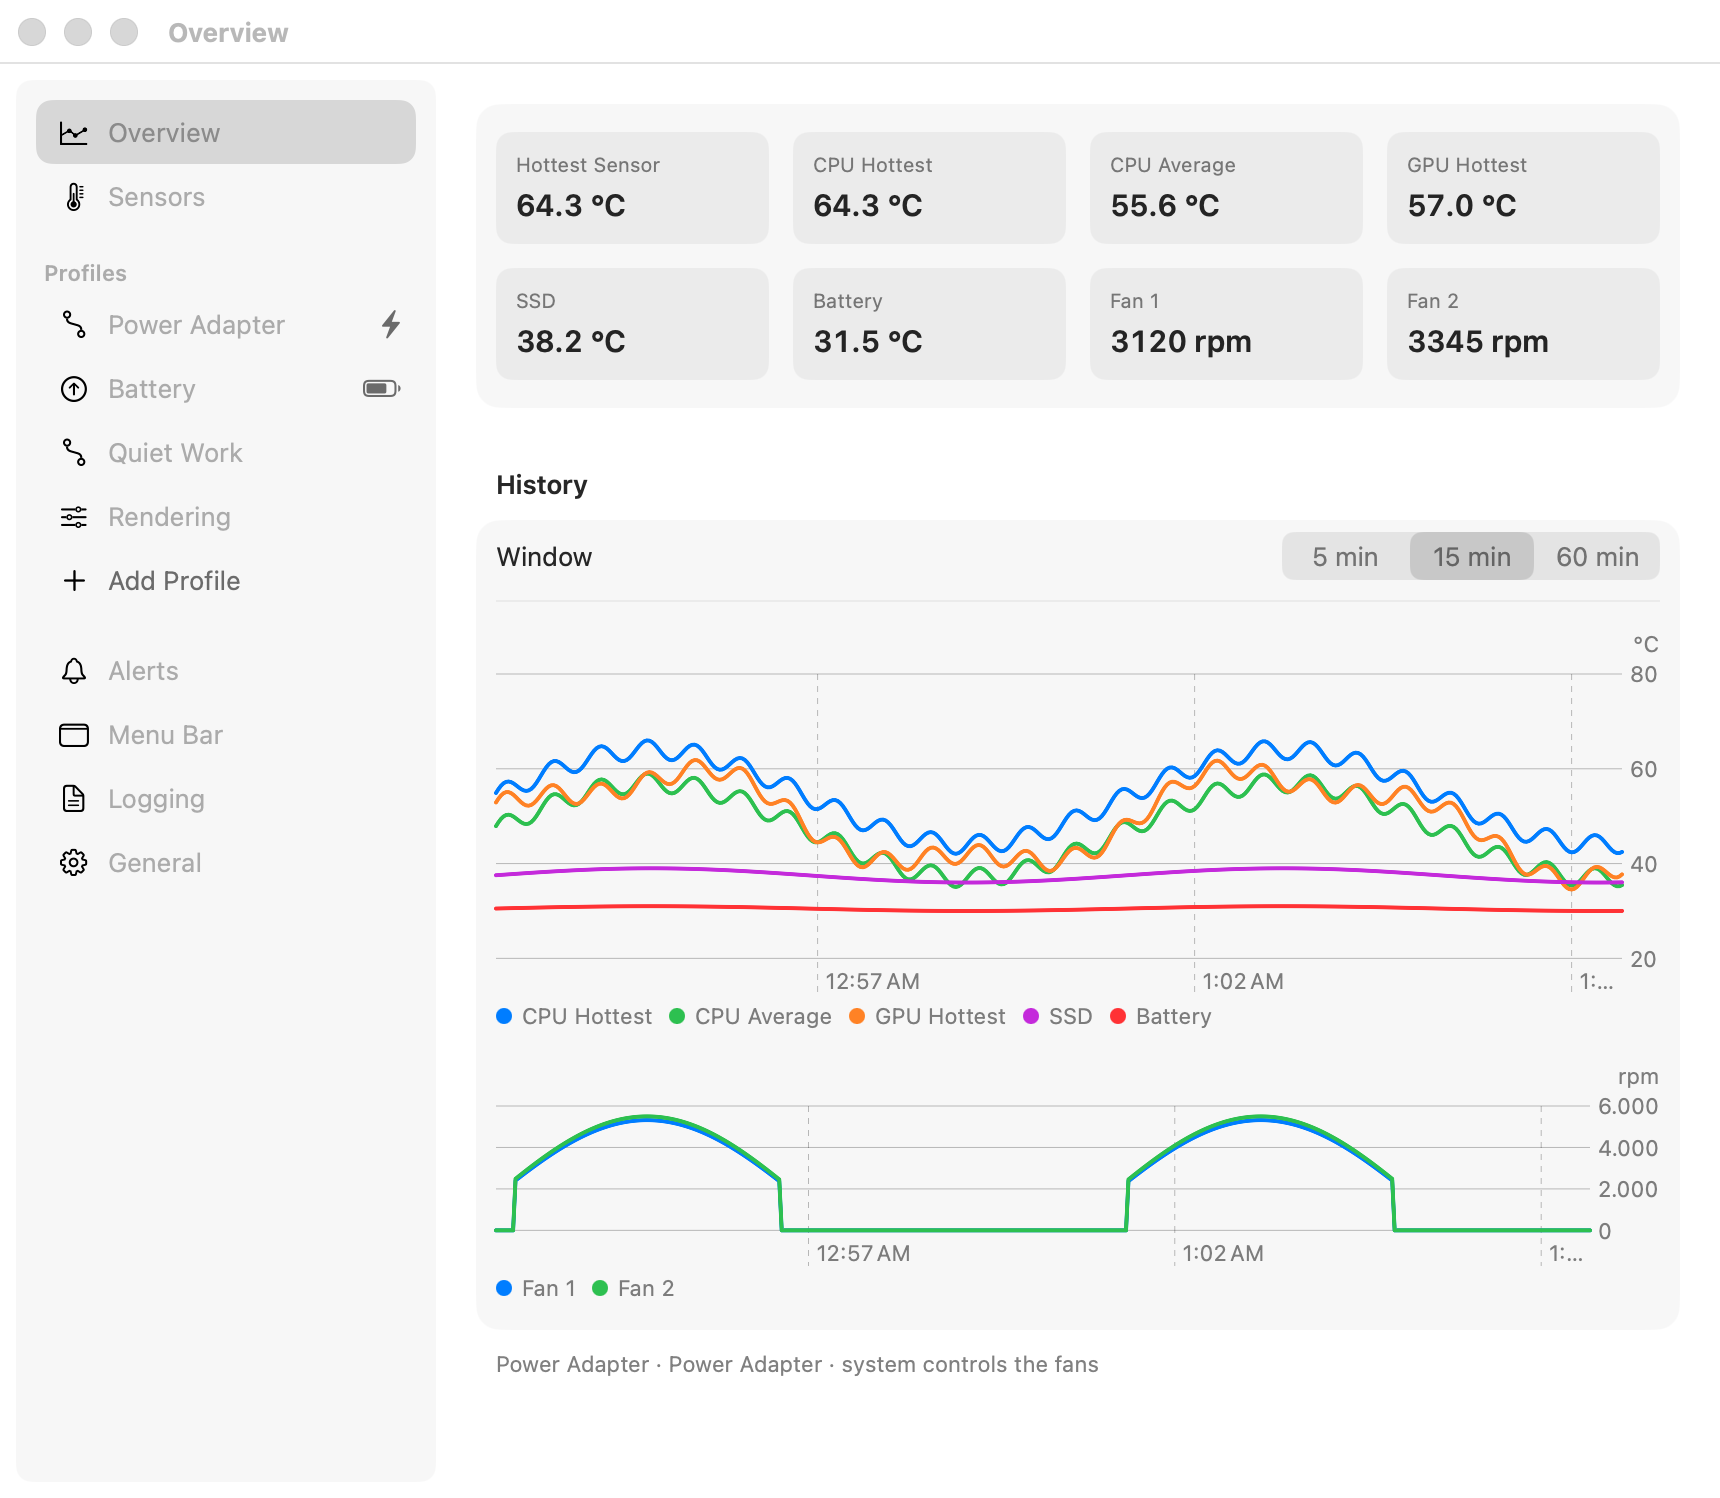
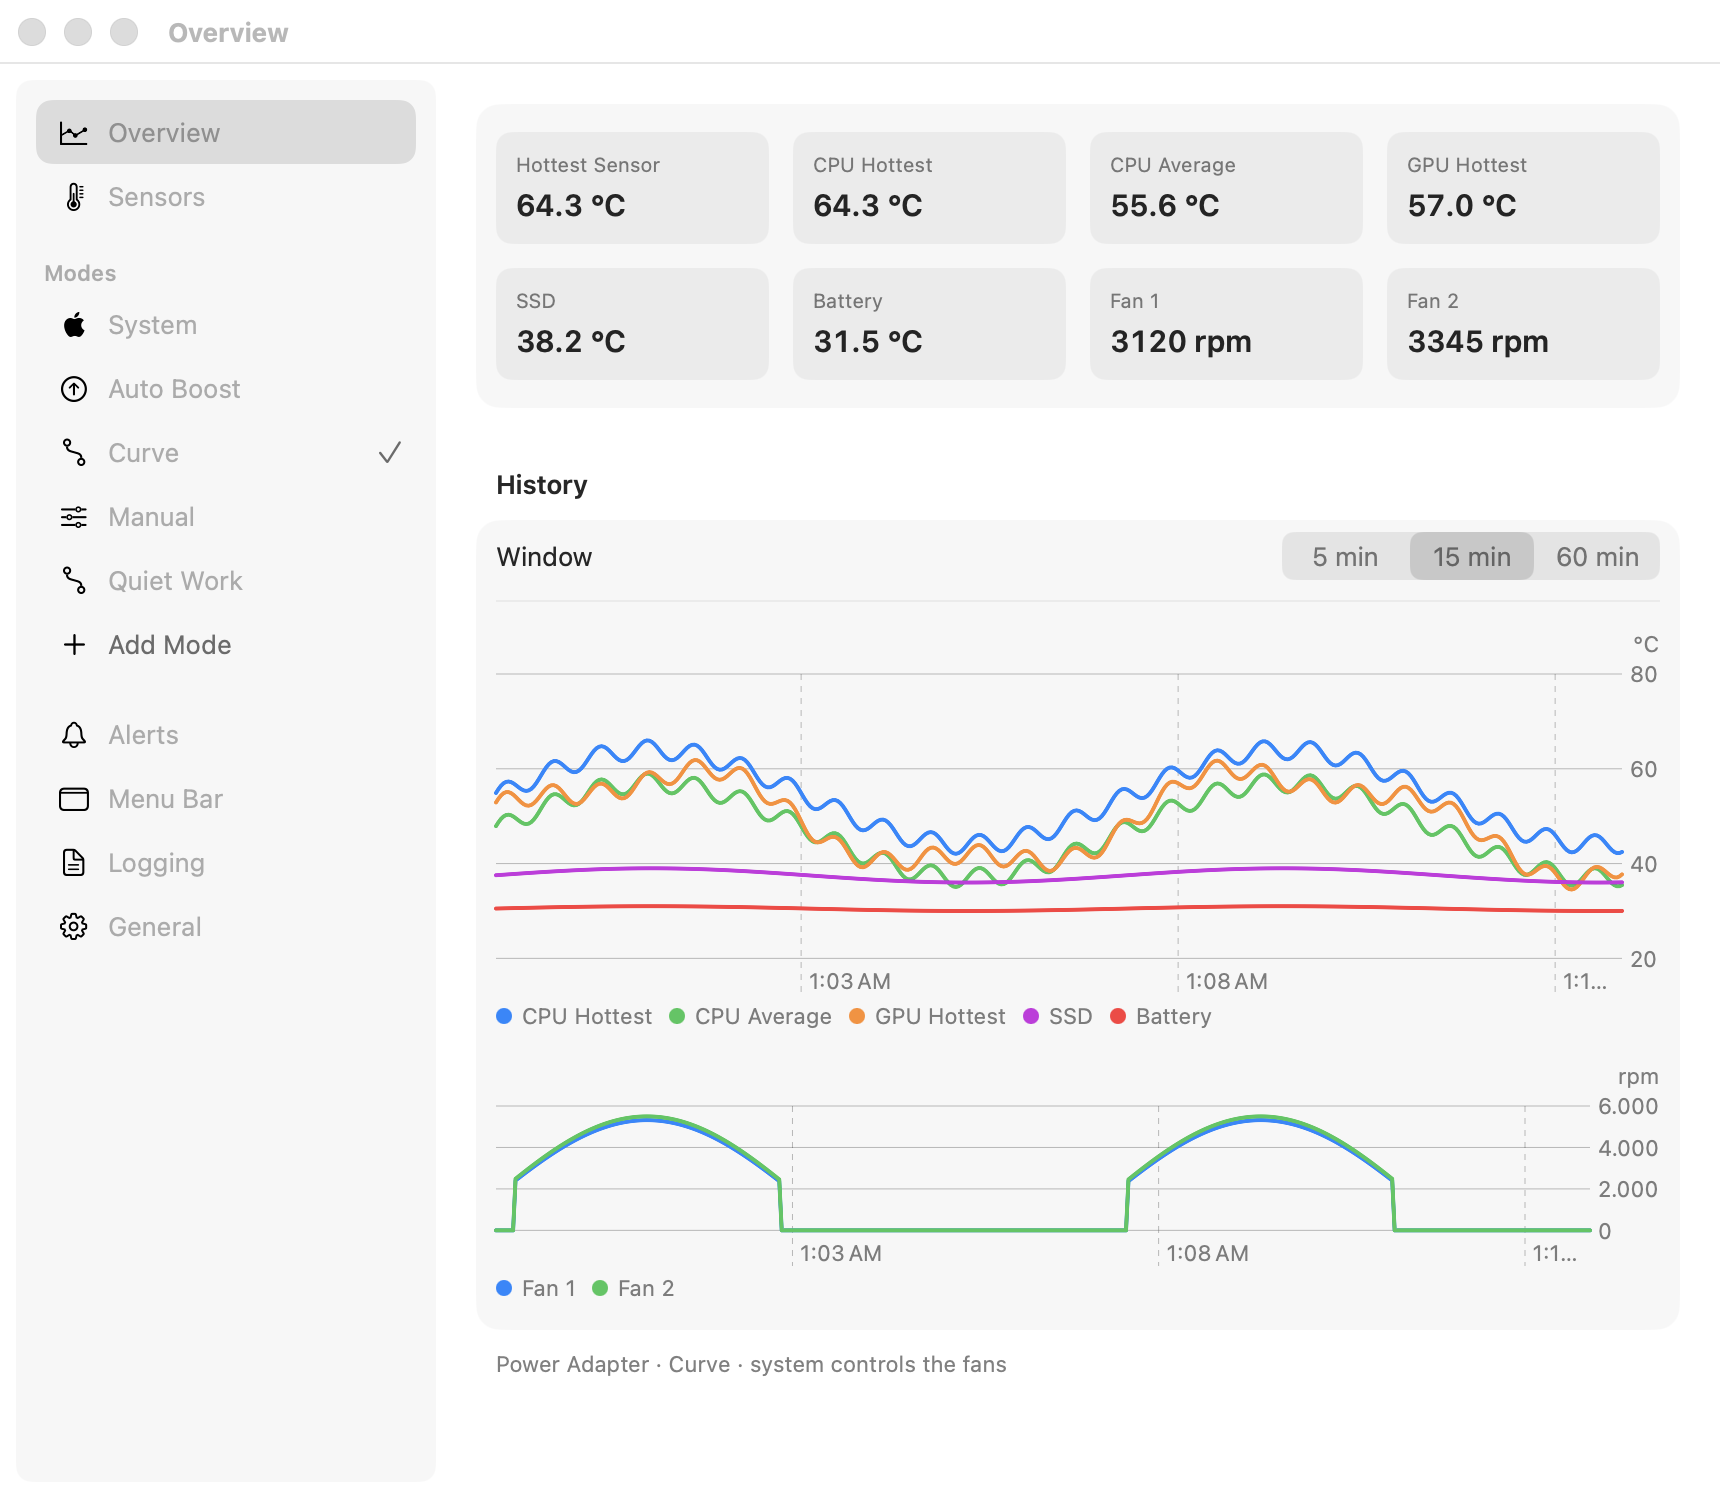
chore: document modes and ordering in readme with new screenshots

diff --git a/README.md b/README.md
@@ -25,14 +25,15 @@
 ## Features
 
 - **Sensors**: discovered at runtime from the SMC and grouped into CPU performance, CPU efficiency, GPU, SSD, battery, wireless, ambient and surface. Summary values (hottest sensor, CPU hottest, CPU average, GPU, SSD, battery) work the same on every Apple Silicon Mac.
-- **Fan modes**:
+- **Fan modes**, picked from the menu bar or the settings sidebar:
   - **System**: macOS stays in control, Tuuli only monitors.
   - **Auto Boost**: rules like "when CPU Hottest reaches 65 °C, run fans at 100%". The fastest active rule wins, with a configurable ramp time and release hysteresis.
-  - **Custom Curve**: a temperature-to-speed curve on any sensor. 0% hands control back to macOS so fans can still idle.
-  - **Manual**: a fixed speed.
-- **Profiles**: create, name, duplicate and delete as many fan profiles as you like. Assign one to the power adapter and one to battery for automatic switching, or pick any profile from the menu bar until the power source changes.
-- **Menu bar**: any mix of icon, two temperatures and fan speed in the status item.
-- **Popover**: choose what it shows, from an ordered list of temperatures, a mini chart, fan speeds and the profile picker. A manual profile gets a speed slider right in the popover.
+  - **Curve**: a temperature-to-speed curve on any sensor. 0% hands control back to macOS so fans can still idle.
+  - **Manual**: a fixed speed, adjustable with a slider right in the menu bar popover.
+  - **Custom modes**: create, name and duplicate your own Boost, Curve or Manual modes. The built-in modes can be renamed but not deleted.
+- **Power source**: Boost and Curve modes can use different settings on battery and on the power adapter, switched automatically.
+- **Menu bar**: the status item shows any mix of icon, temperatures and fan speed, in the order you choose.
+- **Popover**: temperatures, a mini chart, fan speeds and the mode picker, each one optional and in the order you choose.
 - **History**: temperature and fan speed charts over the last 5, 15 or 60 minutes.
 - **Alerts**: notifications when a sensor crosses a threshold, with a repeat cooldown.
 - **CSV logging**: every sensor and fan, at a chosen interval, one file per day.
@@ -41,10 +42,10 @@
 ## Screenshots
 
 <picture>
-  <source media="(prefers-color-scheme: dark)" srcset="docs/screenshots/profile-dark.png">
-  <img src="docs/screenshots/profile-light.png" alt="A fan profile with a custom curve" width="880">
+  <source media="(prefers-color-scheme: dark)" srcset="docs/screenshots/mode-dark.png">
+  <img src="docs/screenshots/mode-light.png" alt="Auto Boost mode with separate battery settings" width="880">
 </picture>
-<p align="center"><sub>Profiles</sub></p>
+<p align="center"><sub>Modes</sub></p>
 
 <picture>
   <source media="(prefers-color-scheme: dark)" srcset="docs/screenshots/menu-bar-dark.png">
@@ -81,7 +82,7 @@
 
 ## Settings location
 
-- Settings and profiles are stored as JSON at `~/Library/Application Support/Tuuli/settings.json`.
+- Settings and modes are stored as JSON at `~/Library/Application Support/Tuuli/settings.json`.
 - CSV logs go to `~/Documents` by default, as `Tuuli-<date>.csv`.
 
 ## Build from source
